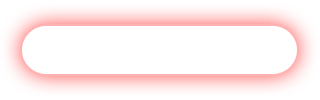
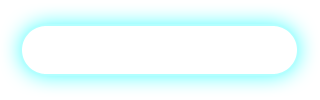
解决提醒区域无法接收触摸事件的问题

Changed region(s): [[0.0312, 0.12, 0.9688, 0.87]]

diff --git a/VCard/UnreadIndicatorButton.m b/VCard/UnreadIndicatorButton.m
@@ -6,6 +6,7 @@
 //  Copyright (c) 2012年 Mondev. All rights reserved.
 //
 
+#import <QuartzCore/QuartzCore.h>
 #import "UnreadIndicatorButton.h"
 
 @implementation UnreadIndicatorButton
@@ -14,15 +15,48 @@
 {
     self = [super initWithFrame:frame];
     if (self) {
-        // Initialization code
-        
+        // Initialization code        
+    }
+    return self;
+}
+
+- (id)initWithCoder:(NSCoder *)aDecoder
+{
+    self = [super initWithCoder:aDecoder];
+    if (self) {
+        _highlightImageView = [[UIImageView alloc] initWithFrame:CGRectMake(-4.0, -8.0, 160.0, 50.0)];
+        _highlightImageView.image = [UIImage imageNamed:@"activity_highlight.png"];
+        [self addSubview:_highlightImageView];
     }
     return self;
 }
 
 - (void)showIndicatingAnimation
 {
+    CAAnimationGroup* animationGroup = [CAAnimationGroup animation];
+    NSMutableArray* animationArray = [NSMutableArray arrayWithCapacity:6];
     
+    for (int i = 0; i < 6; i++) {
+        CABasicAnimation *opacityAnim = [CABasicAnimation animationWithKeyPath:@"opacity"];
+        opacityAnim.fromValue = [NSNumber numberWithFloat:i % 2];
+        opacityAnim.toValue = [NSNumber numberWithFloat:i % 2 + 1.0];
+        opacityAnim.timingFunction = [CAMediaTimingFunction functionWithName:kCAMediaTimingFunctionEaseInEaseOut];
+        opacityAnim.fillMode = kCAFillModeForwards;
+        opacityAnim.removedOnCompletion = YES;
+        opacityAnim.duration = 0.4;
+        
+        [animationArray addObject:opacityAnim];
+        
+//        CABasicAnimation *opacityAnim = [CABasicAnimation animationWithKeyPath:@"opacity"];
+//        opacityAnim.fromValue = [NSNumber numberWithFloat:1.0];
+//        opacityAnim.toValue = [NSNumber numberWithFloat:0.1];
+//        opacityAnim.removedOnCompletion = YES;
+    }
+    [animationGroup setAnimations:animationArray];
+    [animationGroup setDuration:2.0];
+
+    [_highlightImageView.layer removeAllAnimations];
+    [_highlightImageView.layer addAnimation:animationGroup forKey:@"alphaAnimation"];
 }
 
 - (void)showIndicatorUpdatedAnimation

diff --git a/VCard/UnreadIndicatorView.m b/VCard/UnreadIndicatorView.m
@@ -42,11 +42,11 @@
         }
     }
     
-    [UIView animateWithDuration:0.5 animations:^{
+//    [UIView animateWithDuration:0.5 animations:^{
         [indicator resetOriginY:targetHeight];
-    } completion:^(BOOL finished) {
-        [indicator showIndicatingAnimation];
-    }];
+//    } completion:^(BOOL finished) {
+        [indicator performSelector:@selector(showIndicatingAnimation) withObject:nil afterDelay:1];
+//    }];
 }
 
 - (void)removeIndicator:(UnreadIndicatorButton *)indicator
@@ -69,6 +69,19 @@
         indicator.alpha = 1.0;
         indicator.hidden = YES;
     }];
+}
+
+- (BOOL)pointInside:(CGPoint)point withEvent:(UIEvent *)event
+{
+    BOOL result = NO;
+    for (UIView *view in self.subviews) {
+        CGPoint targetPoint = [self convertPoint:point toView:view];
+        if ([view pointInside:targetPoint withEvent:event]) {
+            result = YES;
+            break;
+        }
+    }
+    return result;
 }
 
 @end

diff --git a/VCard/CastViewController.m b/VCard/CastViewController.m
@@ -181,7 +181,8 @@
     [self.waterflowView addSubview:_pullView];
     [self.waterflowView addSubview:_loadMoreView];
     
-    [self refresh];
+    _refreshing = YES;
+    [self loadMoreData];
     [self updateUnreadStatusCount];
 }
 
@@ -558,8 +559,9 @@
         _refreshing = NO;
     }];
     
-    long long maxID = ((Status *)self.fetchedResultsController.fetchedObjects.lastObject).statusID.longLongValue;
-    NSString *maxIDString = _refreshing ? nil : [NSString stringWithFormat:@"%lld", maxID - 1];
+    long long maxID = ((Status *)self.fetchedResultsController.fetchedObjects.lastObject).statusID.longLongValue - 1;
+    maxID = maxID < 0 ? 0 : maxID;
+    NSString *maxIDString = _refreshing ? nil : [NSString stringWithFormat:@"%lld", maxID];
     
     [client getFriendsTimelineSinceID:nil 
                                 maxID:maxIDString

diff --git a/VCard/UnreadIndicatorButton.h b/VCard/UnreadIndicatorButton.h
@@ -8,7 +8,9 @@
 
 #import <UIKit/UIKit.h>
 
-@interface UnreadIndicatorButton : UIButton
+@interface UnreadIndicatorButton : UIButton {
+    UIImageView *_highlightImageView;
+}
 
 @property (nonatomic, assign) NSInteger previousCount;
 
